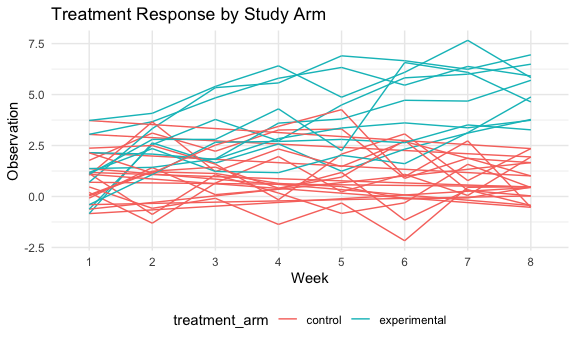
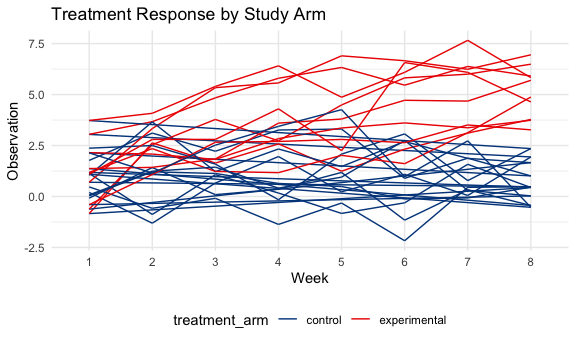
final commit

diff --git a/p8105_hw5_cl3938.md b/p8105_hw5_cl3938.md
@@ -125,9 +125,7 @@ homicide_df =
 
 ## Problem 2
 
-data = map(.x = path\_df$path, \~read\_csv(.x)))
-
-Read in files and create raw dataframe:
+**Read in files and create raw dataframe:**
 
 ``` r
 loc = "./data/trial-data/"
@@ -142,7 +140,7 @@ path_df =
   unnest(data)
 ```
 
-Clean raw dataset:
+**Clean raw dataset:**
 
 ``` r
 trial_df = path_df %>%
@@ -157,7 +155,8 @@ trial_df = path_df %>%
   ) 
 ```
 
-Spaghetti plot:
+**Spaghetti plot of subject observations over time, grouped by study
+treatment arm:**
 
 ``` r
 trial_df %>% 
@@ -167,7 +166,128 @@ trial_df %>%
     title = "Treatment Response by Study Arm",
     x = "Week",
     y = "Observation"
-  )
+  ) + scale_color_lancet()
 ```
 
 <img src="p8105_hw5_cl3938_files/figure-gfm/unnamed-chunk-9-1.png" width="90%" />
+
+The plot shows clear differences between the control and experimental
+group over time. At study onset, both groups are indistinguishable in
+terms of measurements. However, as time progresses, observations of the
+experimental group become, on average, higher than those for the control
+group. At week 8, the two groups are completely separate. For the
+control group, measurement variation within the group seems to decrease
+over time, with the possibility of decreasing average measurement. This
+seems to suggest that the experimental treatment is effective, though
+it’s unclear what it does and whether or not it’s the intended
+purpose.
+
+## Problem 3
+
+Let’s explore power in a two-sided one-sample t-test:
+
+**Generating simulation data:**
+
+``` r
+#fixed parameters
+sample_size = 30
+sigma = 5
+mu_min = 0
+mu_max = 6
+
+#function to simulate single t-test
+sim_t_test = function(mu) {
+  
+  sim_data = tibble(
+    x = rnorm(n = sample_size, mean = mu, sd = sigma),
+  )
+  
+  output = t.test(sim_data, mu = 0, conf.level = 0.95) %>%
+  broom::tidy() %>%
+  select(estimate, p.value)
+}
+
+#function to simulate multiple t-tests and calculate desired values
+multiple_sim_prop = function(mu) {
+  
+  results =
+    rerun(5000, sim_t_test(mu)) %>% 
+    bind_rows() %>%
+    summarize(
+      mean_mu = mean(estimate),
+      mean_rej_mu = mean(estimate[p.value <= 0.05]),
+      count_rej = sum(p.value <= 0.05),
+      prop_rej = count_rej/ n()
+    )
+  results
+}
+
+#run simulation for means from 0-6
+test_output = 
+  tibble(mu = 0:6) %>%
+  mutate(values = map(.x = mu, ~multiple_sim_prop(.x))) %>%
+  unnest(values)
+```
+
+**Plot showing relationship between effect size and power:**
+
+``` r
+test_output %>%
+  ggplot(aes(x = mu, y = prop_rej, fill = mu)) +
+  geom_bar(stat = 'identity') +
+  geom_smooth(se = F) +
+  labs(
+    title = "Relationship between effect size and power",
+    x = "Effect Size (Mu)",
+    y = "Power",
+    caption = "Data generated from 5000 t-test simulations under the null hypothesis mu = 0") + 
+  theme(legend.position = "none")
+```
+
+    ## `geom_smooth()` using method = 'loess' and formula 'y ~ x'
+
+<img src="p8105_hw5_cl3938_files/figure-gfm/unnamed-chunk-11-1.png" width="90%" />
+
+The plot shows that as effect size increases, so does power. The
+relationship is almost exponential, but difficult to tell as the it
+flattens as power approaches 1. At an effect size of 4 or greater, power
+is roughly 1.
+
+**Two-panel plot showing relationship between true and estimated mu**
+
+``` r
+test_output %>%
+  ggplot(aes(x = mu)) +
+  geom_line(aes(y = mean_mu, color = "all")) +
+  geom_line(aes(y = mean_rej_mu, color="reject"), linetype="twodash") +
+  geom_point(aes(y = mean_mu, color = "all")) +
+  geom_point(aes(y = mean_rej_mu, color="reject")) +
+  labs(
+    title = "Relationship between true mean and estimated average mean",
+    x = "True Mean",
+    y = "Estimated Average Mean",
+    caption = "Data generated from 5000 t-test simulations under the null hypothesis mu = 0, alpha = 0.05") +
+  scale_color_manual(
+    name = "Group",
+    values = c("all"= "darkred", "reject" = "steelblue"),
+    labels = c("all tests", "rejected tests"))
+```
+
+<img src="p8105_hw5_cl3938_files/figure-gfm/unnamed-chunk-12-1.png" width="90%" />
+
+The plot shows that for all values of the true mean, the estimated
+average mean across all simulations approximates the true mean. However,
+the estimated average mean of the tests where the null was rejected does
+not always approximate the true mean; it is better at estimating the
+true mean of the distribution as power increases (see above for power
+image). This is likely because at lower power, estimated means need to
+be much more extreme to lead to a rejection.
+
+The exception to this is when the true mean = 0, the estimated average
+mean appears to approximate the true mean. However, this is because the
+because the extreme values cancel each other out; because true mean = 0,
+the extreme estimated means that lead to rejection are equally as likely
+to be negative as positive, so the average of those extreme estimated
+means is close to 0. As the true mean increases, the extreme values are
+more likely to be positive as negative, leading to overestimates in the
+estimated average mean.
